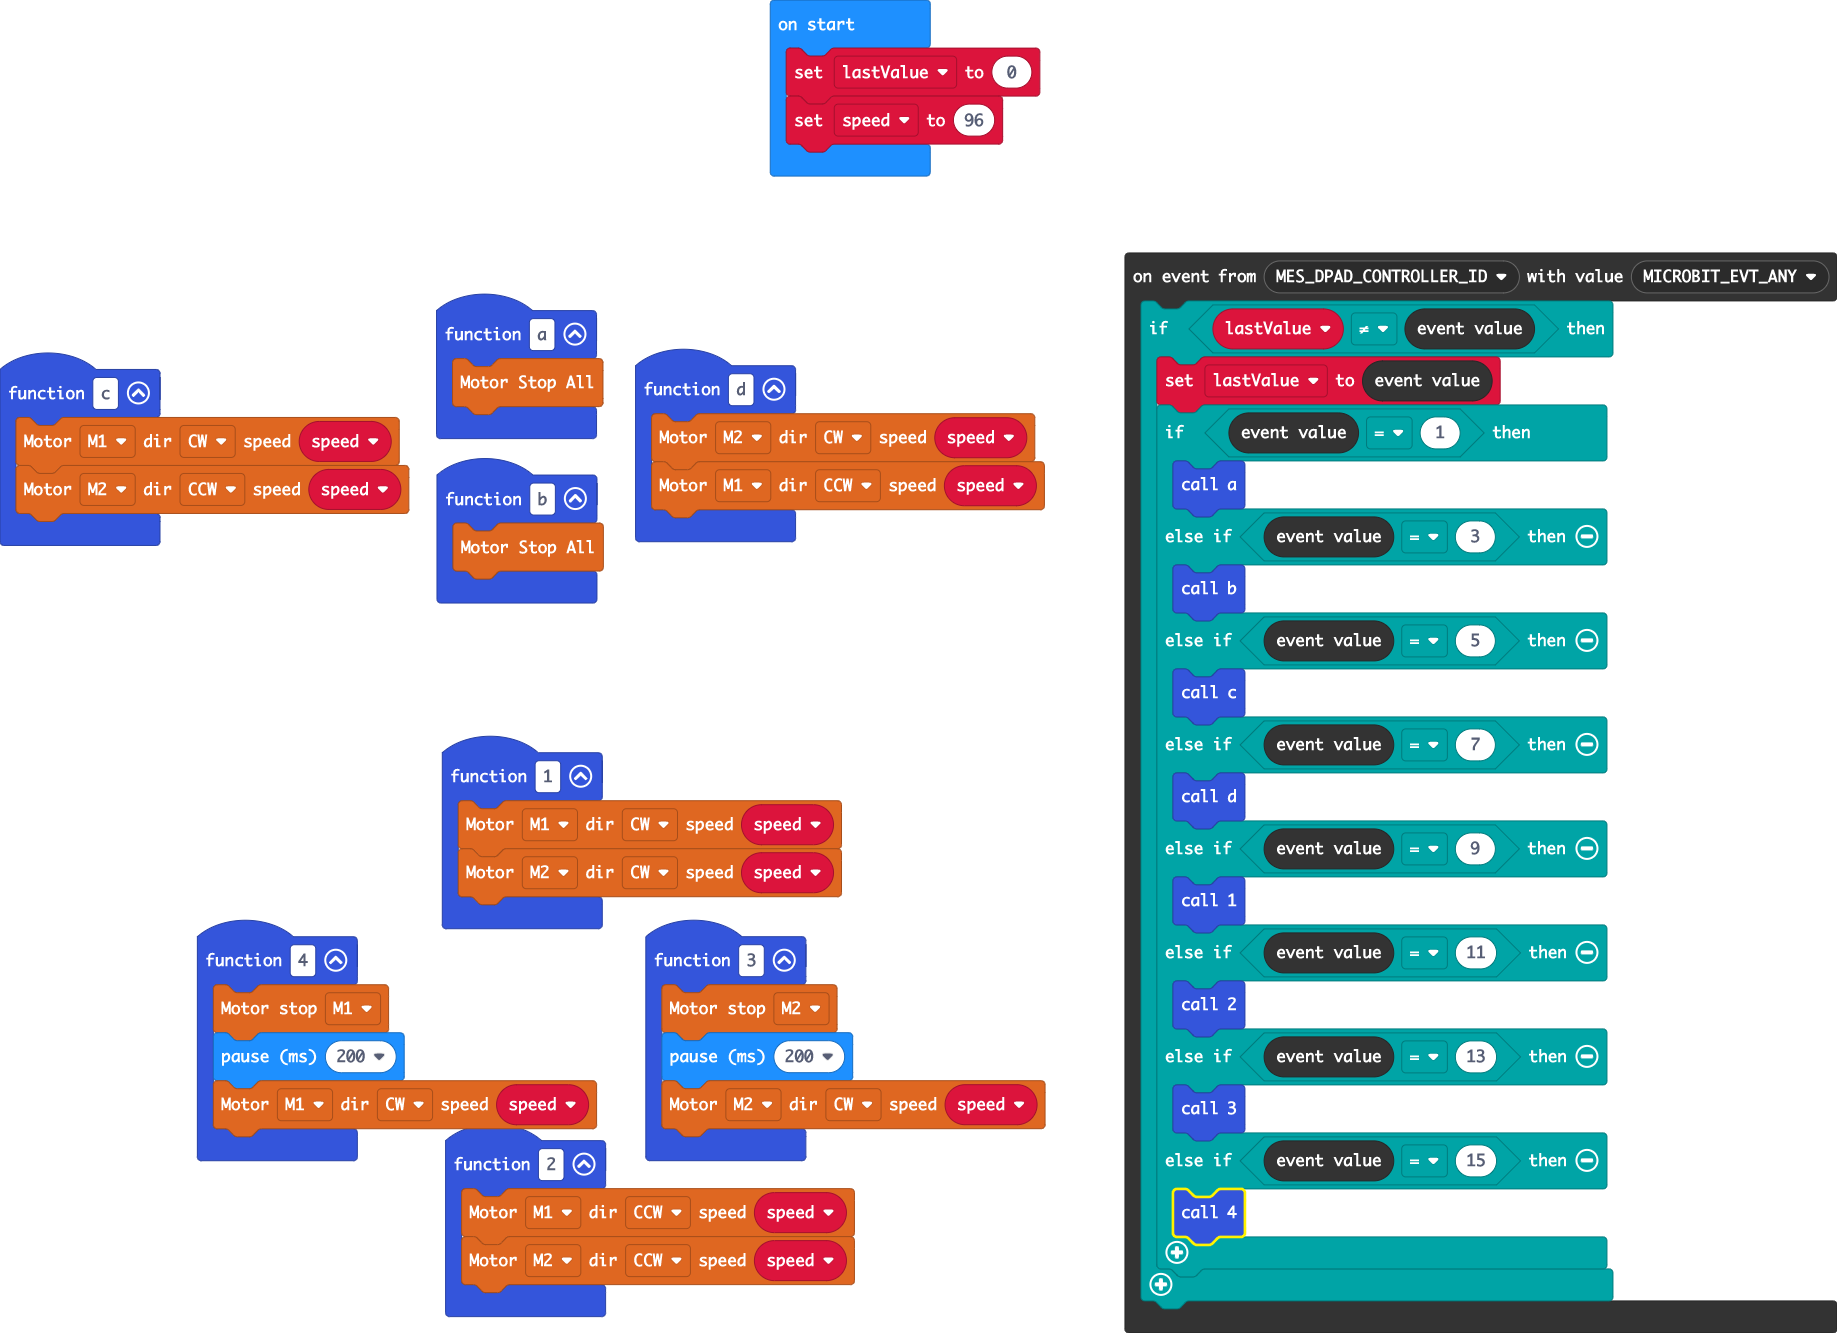
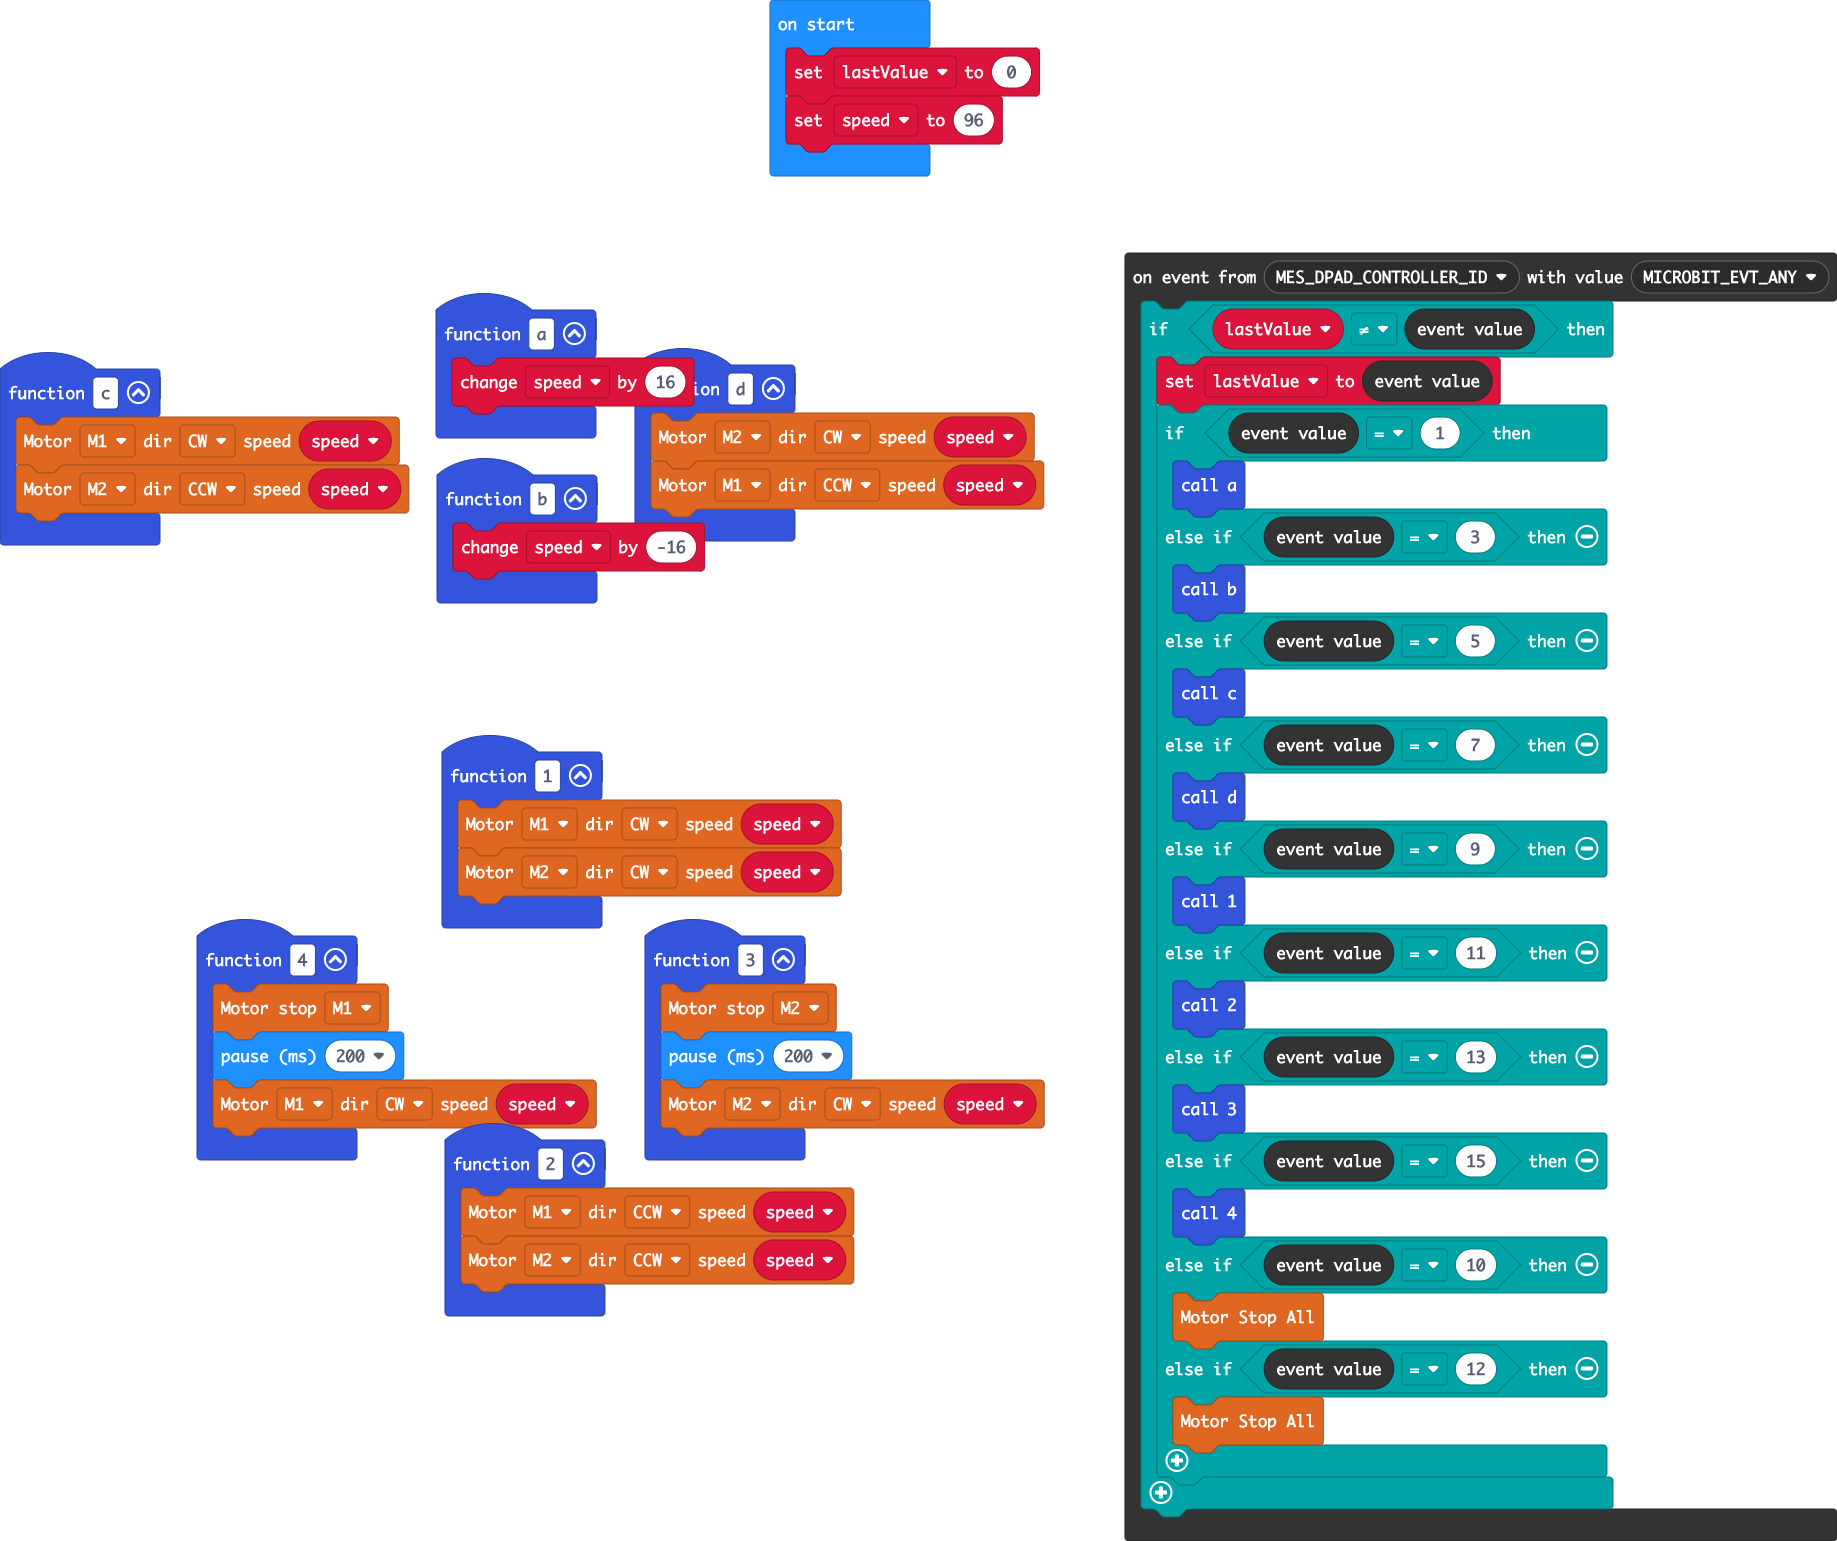
Update main.blocks, main.ts

diff --git a/main.ts b/main.ts
@@ -7,10 +7,10 @@ function _2 () {
     motor.MotorRun(motor.Motors.M2, motor.Dir.CCW, speed)
 }
 function b () {
-    motor.motorStopAll()
+    speed += -16
 }
 function a () {
-    motor.motorStopAll()
+    speed += 16
 }
 function _3 () {
     motor.motorStop(motor.Motors.M2)
@@ -36,6 +36,10 @@ control.onEvent(EventBusSource.MES_DPAD_CONTROLLER_ID, EventBusValue.MICROBIT_EV
             _3()
         } else if (control.eventValue() == 15) {
             _4()
+        } else if (control.eventValue() == 10) {
+            motor.motorStopAll()
+        } else if (control.eventValue() == 12) {
+            motor.motorStopAll()
         }
     }
 })
